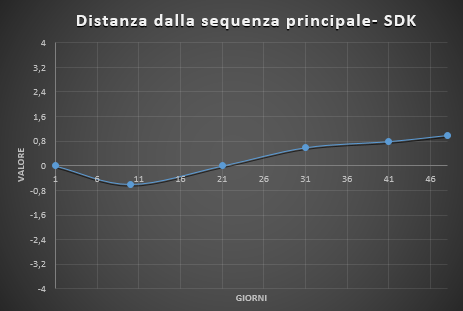
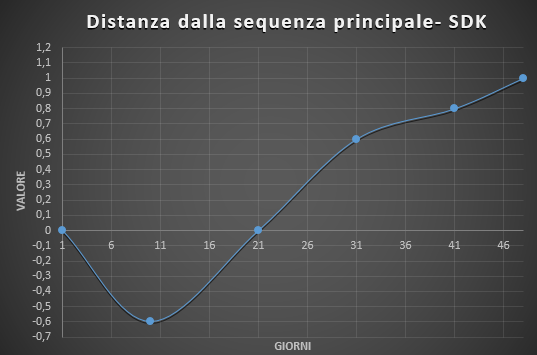
aggiunte altre immagini RQ

diff --git a/4 - RA/Esterni/Piano di Qualifica/Sezioni/A4-Resoconto.tex b/4 - RA/Esterni/Piano di Qualifica/Sezioni/A4-Resoconto.tex
@@ -5,7 +5,8 @@ Il team si impegna a garantire almeno il soddisfacimento del range di accettazio
 
 Per quanto riguarda le misurazioni può essere calcolato un risultato singolo, se la metrica si riferisce ad una caratteristica singola, oppure può essere calcolato un risultato massimo, ovvero una metrica che si riferisce a più componenti, ad esempio le classi. In tal caso verrà presa la misurazione peggiore e confrontata con i valori scelti dal team precedentemente.
 
-Alcune metriche, infine, sono state misurate più volte nel tempo e per queste verrà illustrato un diagramma cartesiano. L'asse delle ascisse di questo grafico rappresenterà in giorni la durata del periodo fino alla consegna, mentre l'asse delle ordinate rappresenterà i valori assunti al momento delle misurazioni
+Alcune metriche, infine, sono state misurate più volte nel tempo e per queste verrà illustrato un diagramma cartesiano, in cui: l'asse delle ascisse rappresenterà in giorni la durata del periodo fino alla consegna, mentre l'asse delle ordinate rappresenterà i valori assunti al momento delle misurazioni. \\
+Verranno comunque riportati i risultati finali di tali metriche nell'apposita tabella.
 
 
 \subsection{Revisione dei Requisiti}
@@ -57,8 +58,8 @@ L'analisi statica dei documenti è stata fatta mediante \termine{Walkthrough} ed
 \hline
 \endhead
 
-%\emph{Schedule Variance} & {Attività} & \textcolor{Green}{0} & / & Superato & Ottimale\\ \hline
-%\emph{Budget Variance} & {Euro} & \textcolor{Green}{15} & / & Superato & Ottimale \\ \hline
+\emph{Schedule Variance} & {Attività} & \textcolor{Green}{0} & / & Superato & Ottimale\\ \hline
+\emph{Budget Variance} & {Euro} & \textcolor{Green}{15} & / & Superato & Ottimale \\ \hline
 \emph{Rischi non preventivati} & {Rischi} & \textcolor{Green}{0} & / & Superato & Ottimale\\ \hline
 \emph{Ottimalità delle misurazioni} & {Percentuale} & \textcolor{Green}{0.6} & / & Superato & Ottimale \\ \hline
 \emph{Rischi non preventivati} & {Rischi} & \textcolor{Green}{0} & / & Superato & Ottimale\\ \hline
@@ -100,13 +101,13 @@ L'analisi statica dei documenti è stata fatta mediante \termine{Walkthrough} ed
 
 \begin{figure}[H]
 	\centering 
-	\includegraphics[scale=0.6]{Sezioni/Immagini/ScheduleVariance-RR}
+	\includegraphics[scale=0.7]{Sezioni/Immagini/ScheduleVariance-RR}
 	\caption{Schedule variance - RR}
 \end{figure}
 
 \begin{figure}[H]
 	\centering 
-	\includegraphics[scale=0.6]{Sezioni/Immagini/BudgetVariance-RR}
+	\includegraphics[scale=0.7]{Sezioni/Immagini/BudgetVariance-RR}
 	\caption{Budget variance - RR}
 \end{figure}
 
@@ -197,18 +198,18 @@ L'analisi statica dei documenti è stata fatta mediante \termine{Walkthrough} ed
 \hline
 \endhead
 
-%\emph{Schedule Variance} & {Attività} & \textcolor{Green}{0} & / & Superato & Ottimale\\ \hline
-%\emph{Budget Variance} & {Euro} & \textcolor{Orange}{-50} & / & Non superato & /\\ \hline
+\emph{Schedule Variance} & {Attività} & \textcolor{Green}{0} & / & Superato & Ottimale\\ \hline
+\emph{Budget Variance} & {Euro} & \textcolor{Orange}{-50} & / & Non superato & /\\ \hline
 \emph{Ottimalità delle misurazioni} & {Percentuale} & \textcolor{Green}{0.6} & / & Superato & Ottimale \\ \hline
 \emph{Rischi non preventivati} & {Rischi} & \textcolor{Green}{2} & / & Superato & Accettabile\\ \hline
 %\emph{Efficienza di gestione dei rischi} & {Giorni} & \textcolor{Orange}{21.3} & $\geq 20$ & $\geq 60$\\ \hline
 %\emph{Requisiti obbligatori soddisfatti} & {Percentuale} & \textcolor{Green}{100} & $100$ & $100$\\ \hline
-%\emph{Livello di instabilità-SDK} & {Percentuale} & / &\textcolor{Green}{1} & Superato & Accettabile\\ \hline
-%\emph{Livello di instabilità-Applicazione} & {Percentuale} & / &\textcolor{Green}{1} & Superato & Accettabile\\ \hline
+\emph{Livello di instabilità-SDK} & {Percentuale} & / &\textcolor{Green}{1} & Superato & Accettabile\\ \hline
+\emph{Livello di instabilità-Applicazione} & {Percentuale} & / &\textcolor{Green}{1} & Superato & Accettabile\\ \hline
 \emph{Astrattezza-SDK} & {Percentuale} & \textcolor{Green}{0.8} & / & Superato & Accettabile\\ \hline
 \emph{Astrattezza-Applicazione} & {Percentuale} & \textcolor{Green}{0.5} & / & Superato & Ottimale\\ \hline
-%\emph{Distanza dalla sequenza principale-SDK} & {Percentuale} & / &\textcolor{Green}{1} & Superato & Accettabile\\ \hline
-%\emph{Distanza dalla sequenza principale-Applicazione} & {Percentuale} & / &\textcolor{Green}{0.7} & Superato & Accettabile\\ \hline
+\emph{Distanza dalla sequenza principale-SDK} & {Percentuale} & / &\textcolor{Green}{1} & Superato & Accettabile\\ \hline
+\emph{Distanza dalla sequenza principale-Applicazione} & {Percentuale} & / &\textcolor{Green}{0.7} & Superato & Accettabile\\ \hline
 \emph{Numero di metodi per classe} & {Metodi} & / &\textcolor{Green}{11} & Superato & Accettabile\\ \hline
 \emph{Numero di attributi per classe} & {Attributi} & / &\textcolor{Green}{7} & Superato & Ottimale\\ \hline
 \emph{Numero di parametri per metodo} & {Parametri} & / &\textcolor{Green}{7} & Superato & Ottimale\\ \hline
@@ -237,37 +238,37 @@ L'analisi statica dei documenti è stata fatta mediante \termine{Walkthrough} ed
 
 \begin{figure}[H]
 	\centering 
-	\includegraphics[scale=0.6]{Sezioni/Immagini/ScheduleVariance-RP}
+	\includegraphics[scale=0.7]{Sezioni/Immagini/ScheduleVariance-RP}
 	\caption{Schedule variance - RP}
 \end{figure}
 
 \begin{figure}[H]
 	\centering 
-	\includegraphics[scale=0.6]{Sezioni/Immagini/BudgetVariance-RP}
+	\includegraphics[scale=0.7]{Sezioni/Immagini/BudgetVariance-RP}
 	\caption{Budget variance - RP}
 \end{figure}
 
 \begin{figure}[H]
 	\centering 
-	\includegraphics[scale=0.6]{Sezioni/Immagini/LivelloInstabilitaSDK-RP}
+	\includegraphics[scale=0.85]{Sezioni/Immagini/LivelloInstabilitaSDK-RP}
 	\caption{Livello di instabilità SDK - RP}
 \end{figure}
 
 \begin{figure}[H]
 	\centering 
-	\includegraphics[scale=0.6]{Sezioni/Immagini/LivelloInstabilitaApp-RP}
+	\includegraphics[scale=0.85]{Sezioni/Immagini/LivelloInstabilitaApp-RP}
 	\caption{Livello di instabilità Applicazione - RP}
 \end{figure}
 
 \begin{figure}[H]
 	\centering 
-	\includegraphics[scale=0.6]{Sezioni/Immagini/DistanzaSDK-RP}
+	\includegraphics[scale=0.63]{Sezioni/Immagini/DistanzaSDK-RP}
 	\caption{Distanza dalla sequenza principale SDK - RP}
 \end{figure}
 
 \begin{figure}[H]
 	\centering 
-	\includegraphics[scale=0.6]{Sezioni/Immagini/DistanzaApp-RP}
+	\includegraphics[scale=0.63]{Sezioni/Immagini/DistanzaApp-RP}
 	\caption{Distanza dalla sequenza principale Applicazione - RP}
 \end{figure}
 
@@ -361,8 +362,8 @@ Si noti che alcune componenti e i test a loro correlati non sono ancora state sv
 \textbf{Metrica} & \textbf{Unità di misura} & \textbf{Risultato} & \textbf{Risultato massimo} & \textbf{Esito} & \textbf{Valore}\\
 \hline
 \endhead
-%\emph{Schedule Variance} & {Attività} & \textcolor{Green}{0} & / & Superato & Ottimale\\ \hline
-%\emph{Budget Variance} & {Euro} & \textcolor{Orange}{-697} & / & Non superato & /\\ \hline
+\emph{Schedule Variance} & {Attività} & \textcolor{Green}{0} & / & Superato & Ottimale\\ \hline
+\emph{Budget Variance} & {Euro} & \textcolor{Orange}{-697} & / & Non superato & /\\ \hline
 \emph{Ottimalità delle misurazioni} & {Percentuale} & \textcolor{Green}{74\%} & / & Superato & Ottimale \\ \hline
 \emph{Rischi non preventivati} & {Rischi} & \textcolor{Green}{2} & / & Superato & Accettabile\\ \hline
 \emph{Requisiti obbligatori soddisfatti} & {Percentuale} & \textcolor{Orange}{97.6\%} & / & Non superato & /\\ \hline
@@ -401,14 +402,50 @@ Si noti che alcune componenti e i test a loro correlati non sono ancora state sv
 
 \begin{figure}[H]
 	\centering 
-	\includegraphics[scale=0.6]{Sezioni/Immagini/ScheduleVariance-RQ}
+	\includegraphics[scale=0.7]{Sezioni/Immagini/ScheduleVariance-RQ}
 	\caption{Schedule variance - RQ}
 \end{figure}
 
 \begin{figure}[H]
 	\centering 
-	\includegraphics[scale=0.6]{Sezioni/Immagini/BudgetVariance-RQ}
+	\includegraphics[scale=0.7]{Sezioni/Immagini/BudgetVariance-RQ}
 	\caption{Budget variance - RQ}
+\end{figure}
+
+\begin{figure}[H]
+	\centering 
+	\includegraphics[scale=0.85]{Sezioni/Immagini/LivelloInstabilitaSDK-RQ}
+	\caption{Livello di instabilità Monolith - RQ}
+\end{figure}
+
+\begin{figure}[H]
+	\centering 
+	\includegraphics[scale=0.85]{Sezioni/Immagini/LivelloInstabilitaApp-RQ}
+	\caption{Livello di instabilità Bringit - RQ}
+\end{figure}
+
+\begin{figure}[H]
+	\centering 
+	\includegraphics[scale=0.85]{Sezioni/Immagini/DistanzaSDK-RQ}
+	\caption{Distanza dalla sequenza principale Monolith - RQ}
+\end{figure}
+
+\begin{figure}[H]
+	\centering 
+	\includegraphics[scale=0.85]{Sezioni/Immagini/DistanzaApp-RQ}
+	\caption{Distanza dalla sequenza principale Bringit - RQ}
+\end{figure}
+
+\begin{figure}[H]
+	\centering 
+	\includegraphics[scale=0.8]{Sezioni/Immagini/LineeCodiceCommentoSDK-RQ}
+	\caption{Linee di codice per linee di commento Monolith - RQ}
+\end{figure}
+
+\begin{figure}[H]
+	\centering 
+	\includegraphics[scale=0.8]{Sezioni/Immagini/LineeCodiceCommentoApp-RQ}
+	\caption{Linee di codice per linee di commento Bringit - RQ}
 \end{figure}
 
 \subsubsection{Livello dei processi}
